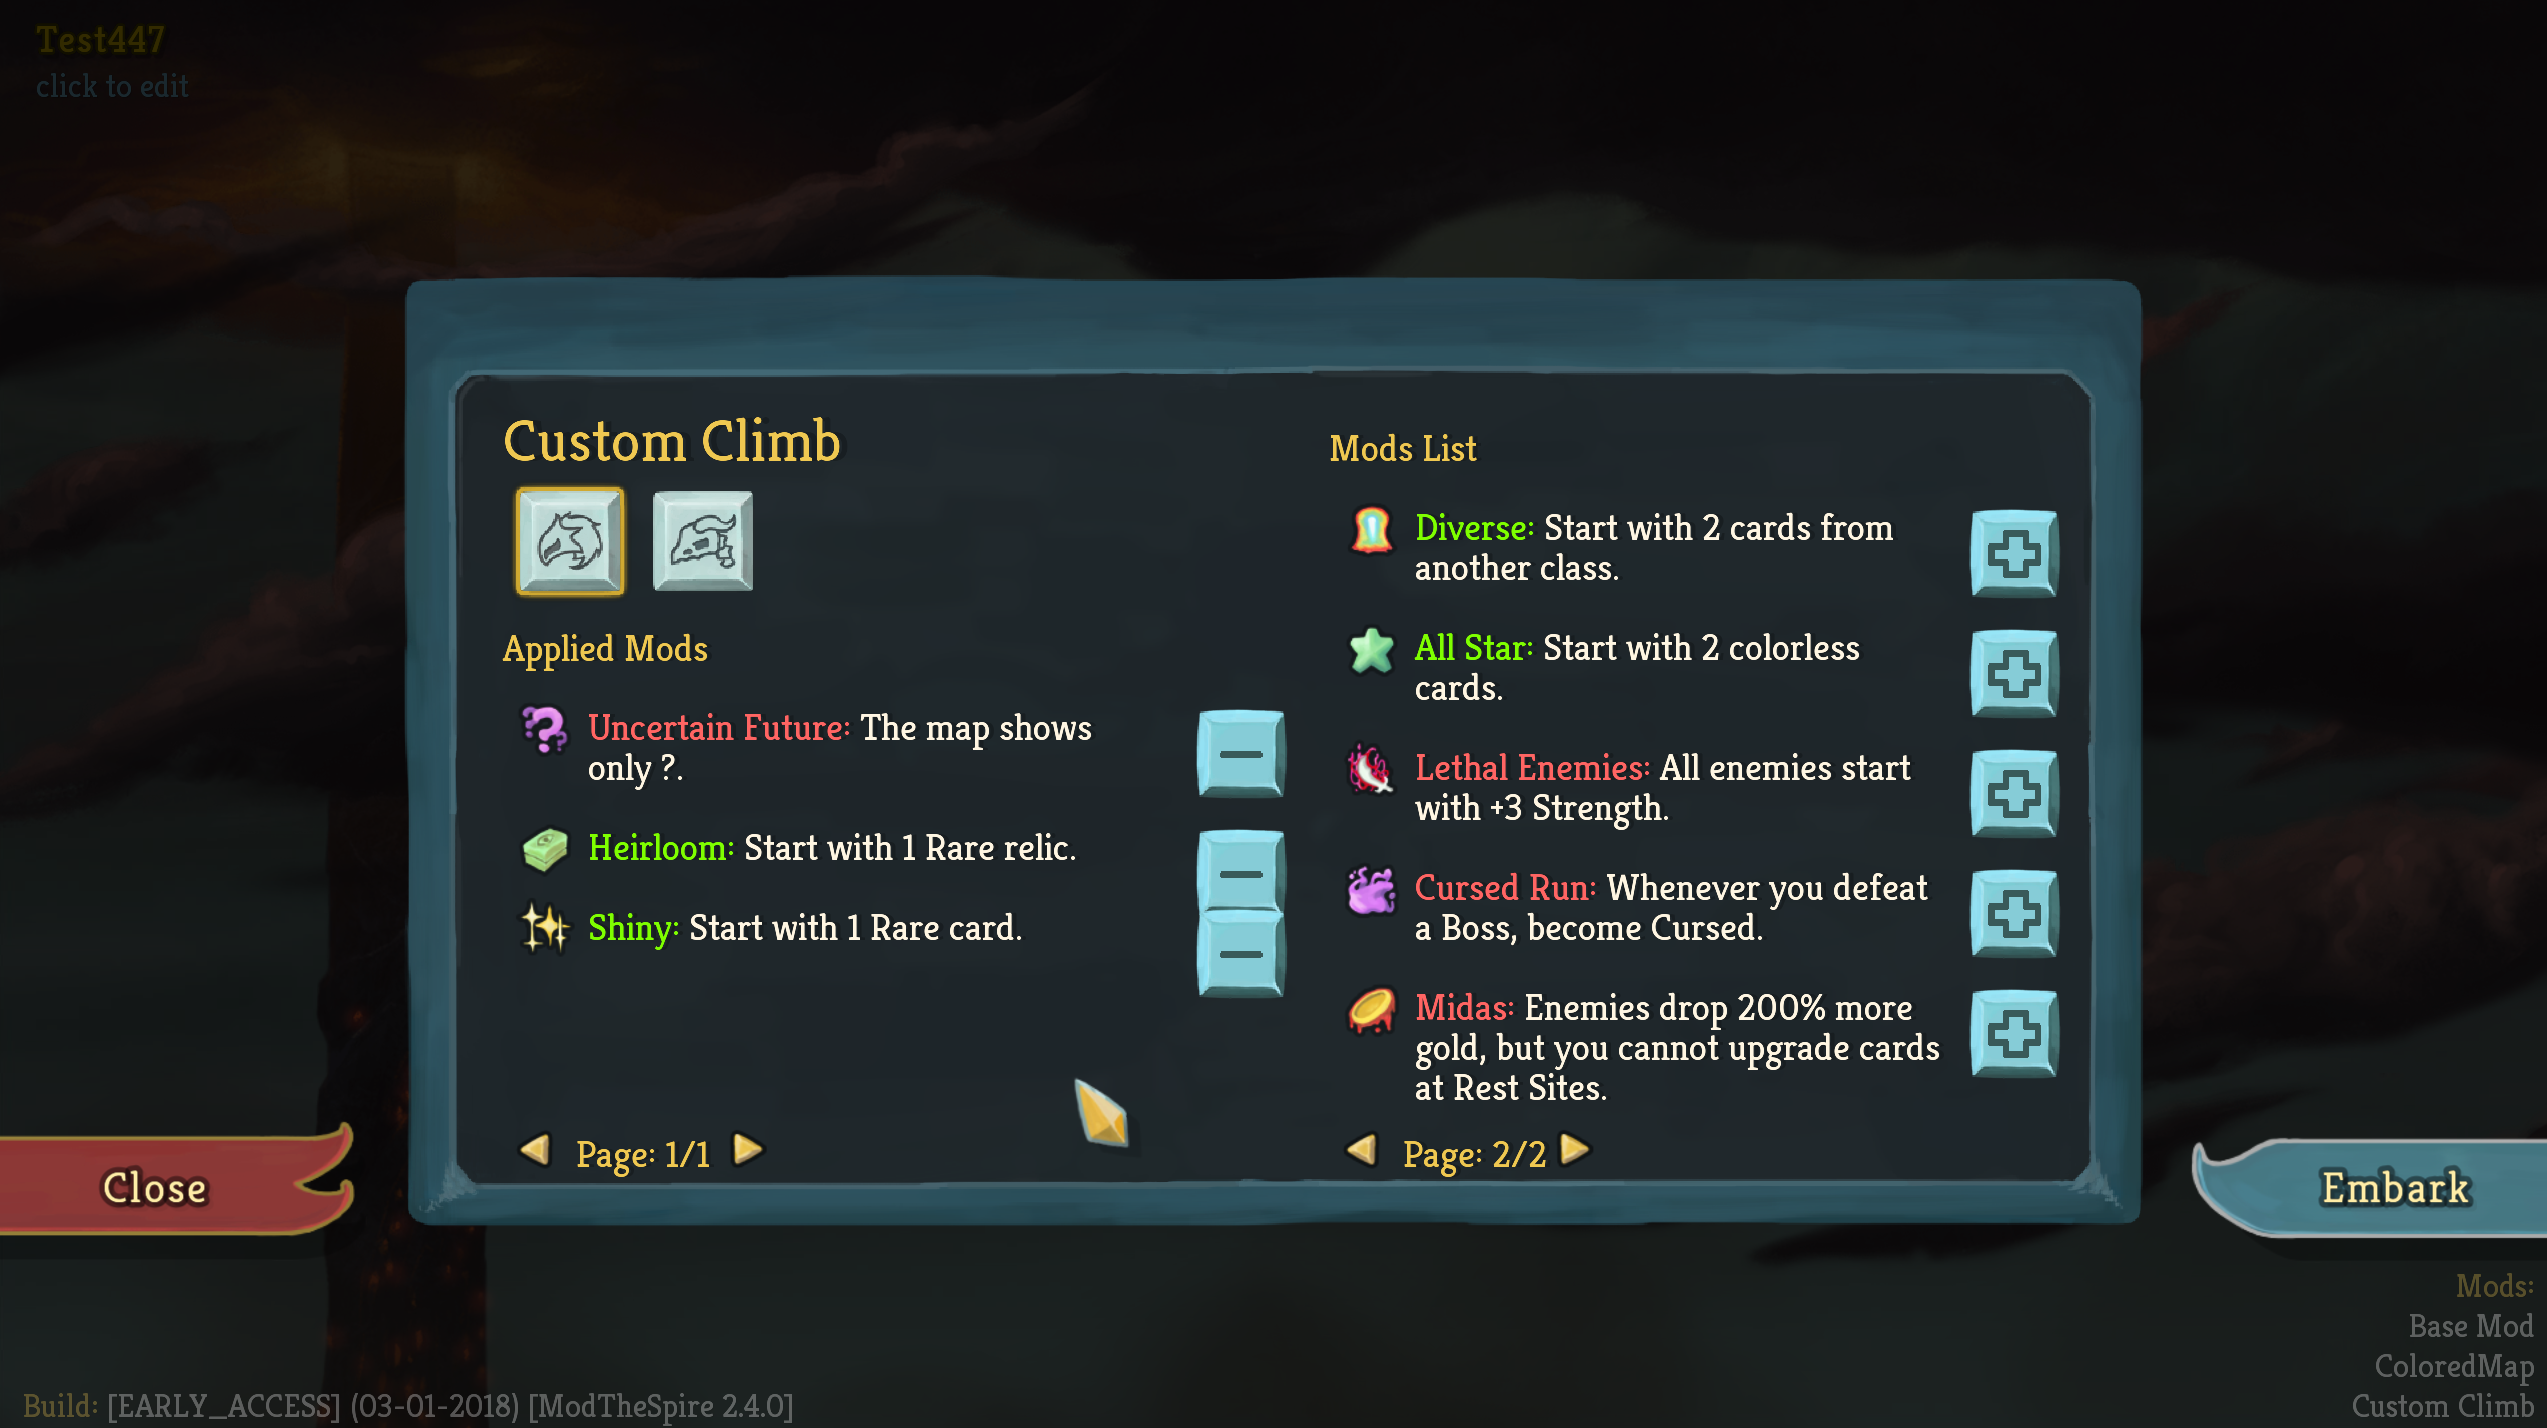
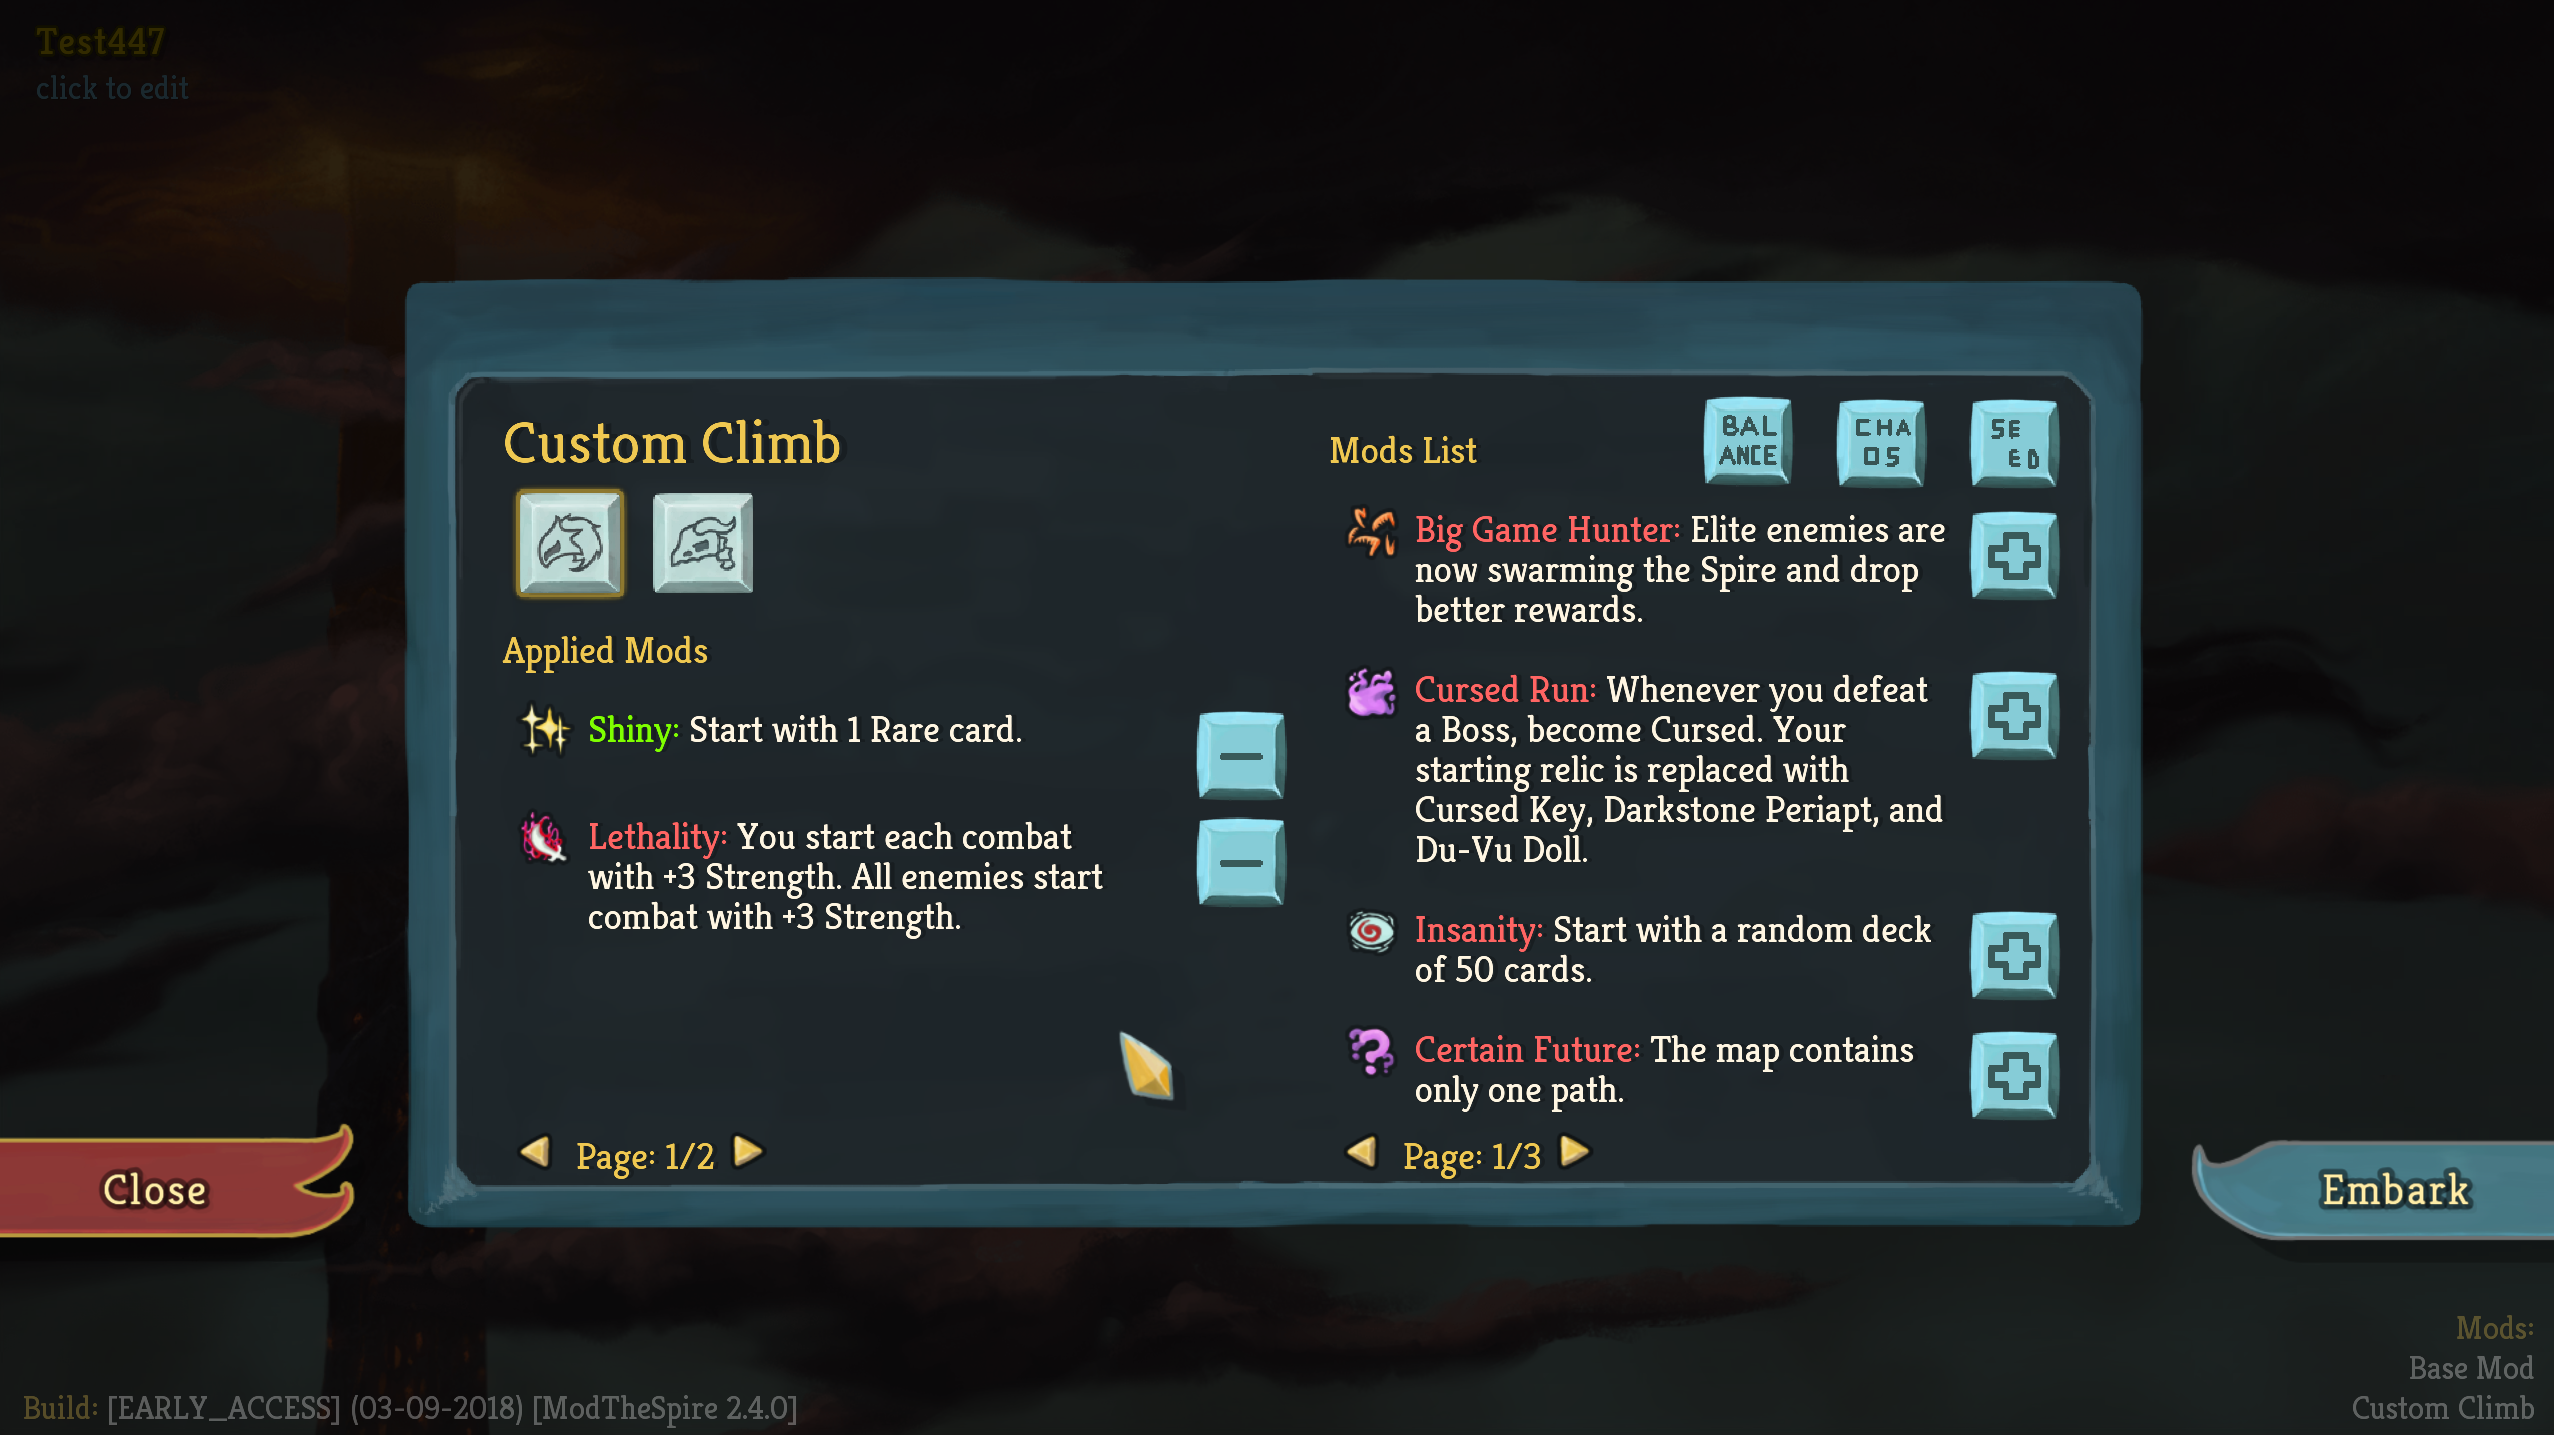
Update README with new features

diff --git a/README.md b/README.md
@@ -9,6 +9,18 @@ To open the *Custom Climb Menu* click on the icon with the brown staircase. This
 
 On the *Modifier Select Screen* you can chose your modifiers for the run. First select a character using the Ironclad or Silent button. This will make the embark button available. The **Applied Mods** list shows what mods will be applied for your custom climb. The **Mods List** shows you all the possible mods that you can apply to your custom climb. Notice that under both lists there are left and right arrows. This is because there are more mods than can be displayed at once so you need to use the arrows to navigate to all the possible mods.
 
+![Seed Select Screen](github_resources/seed_select.png)
+
+On the *Seed Select Panel* you can chose your seed for the run. Simply type in the seed you want to use and hit confirm and the seed will be set for your run.
+
+![Balanced Random Screen](github_resources/balanced_random.png)
+
+If you like the way that the daily climb randomizes the modifiers try using the *Balance* button to bring up the *Balanced Random Panel*. This panel lets you make a run with random modifiers and ensures that 25% of the modifiers (rounded down) are positive (with a minimum of 1 positive modifier). This way you can do as many challenge runs just like the daily climbs as you want!
+
+![Chaotic Random Screen](github_resources/chaotic_random.png)
+
+If you want a bigger challenge, use the *Chaos* button to bring up the *Chaotic Random Panel*. This panel lets you make a run with completely random modifiers and no guarantees about the number of positive modifiers.
+
 ![In Game](github_resources/custom_climb_in_game.png)
 
 Once in game the custom climb will act like a daily climb. All of the mods are applied **and** you will not be able to save and quit without losing your progress.
